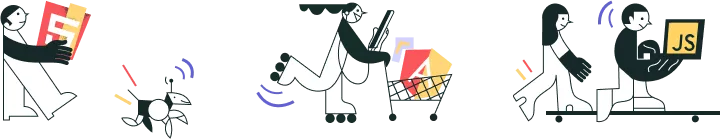
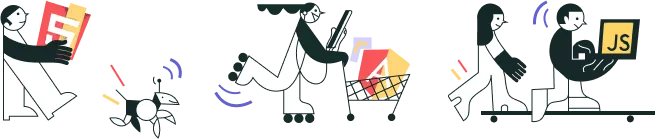
fix:COM-2007 Поправил разделители

diff --git a/components/Post/Body/Separator/Separator.styles.js b/components/Post/Body/Separator/Separator.styles.js
@@ -17,7 +17,7 @@ const base = ({ breakpoints: { desktop, tablet, mobile }, lineColor }) => css`
     &.color-line {
       position: relative;
       display: block;
-      height: ${calcRem(139)};
+      height: ${calcRem(150)};
 
       &::before {
         z-index: 1;
@@ -39,7 +39,7 @@ const base = ({ breakpoints: { desktop, tablet, mobile }, lineColor }) => css`
         width: 100%;
         height: 100%;
         background-repeat: no-repeat;
-        background-size: contain;
+        background-size: ${calcRem(656)};
         background-position: center 100%;
       }
     }
@@ -87,10 +87,16 @@ const base = ({ breakpoints: { desktop, tablet, mobile }, lineColor }) => css`
     margin-top: ${calcRem(60)};
 
     &.bg-repeat {
-      height: ${calcRem(150)};
+      height: ${calcRem(100)};
 
       &::after {
         background-size: cover;
+      }
+    }
+
+    &.manWithCafeBg {
+      &::after {
+        background-position: ${calcRem(20)} 100%;
       }
     }
   }
